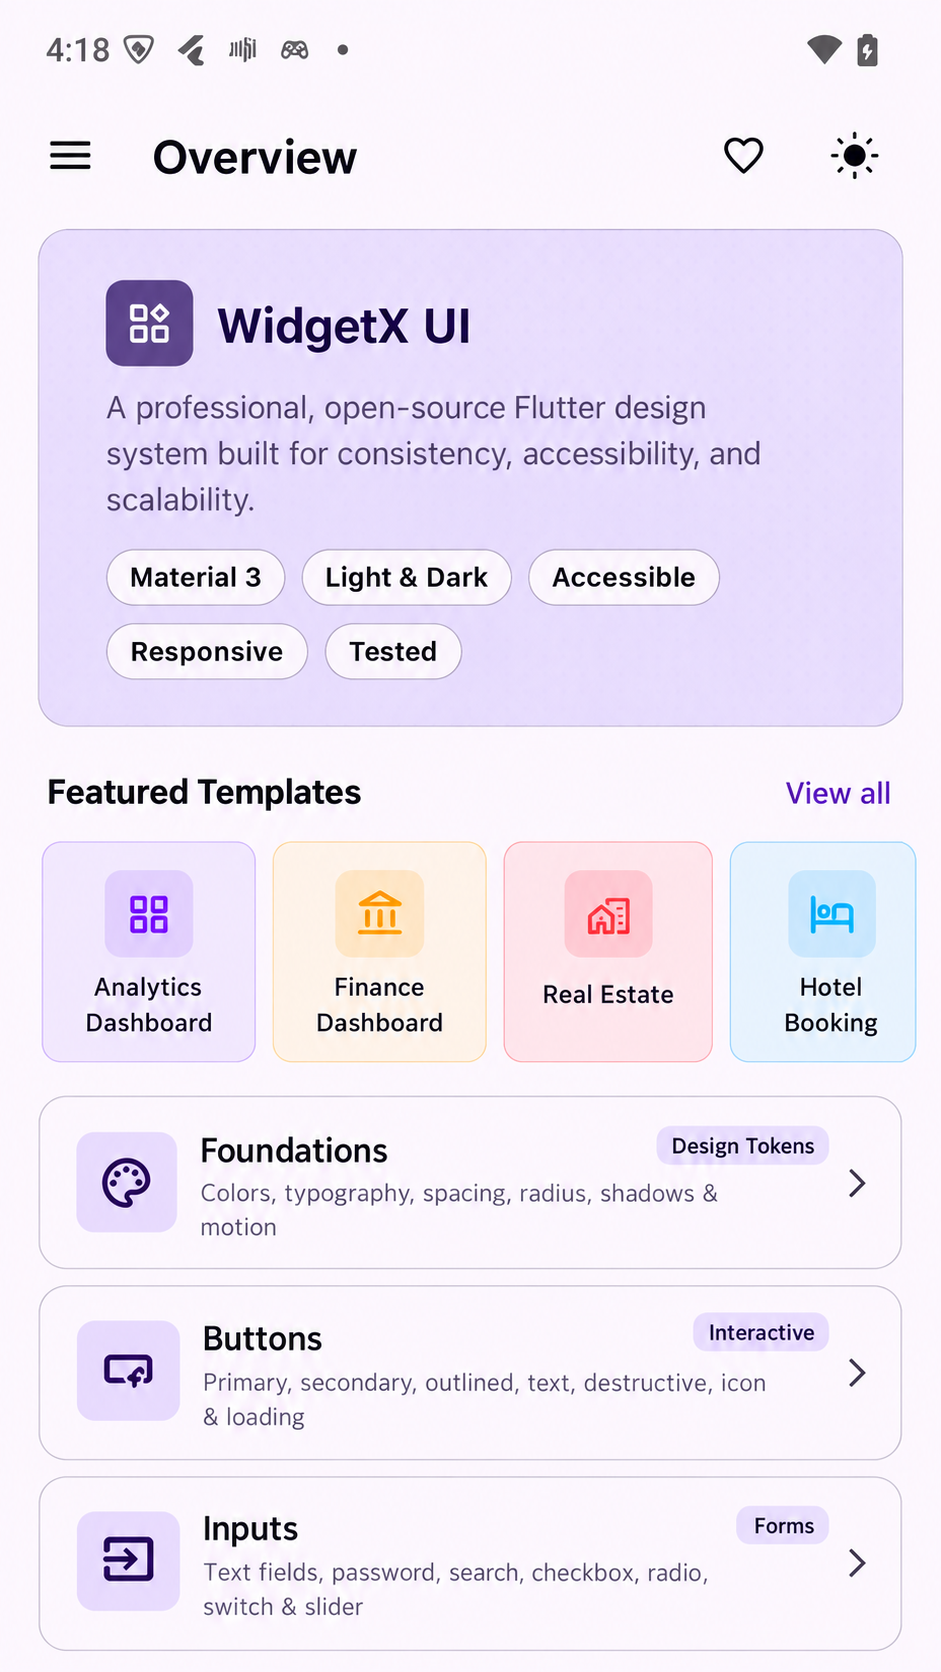
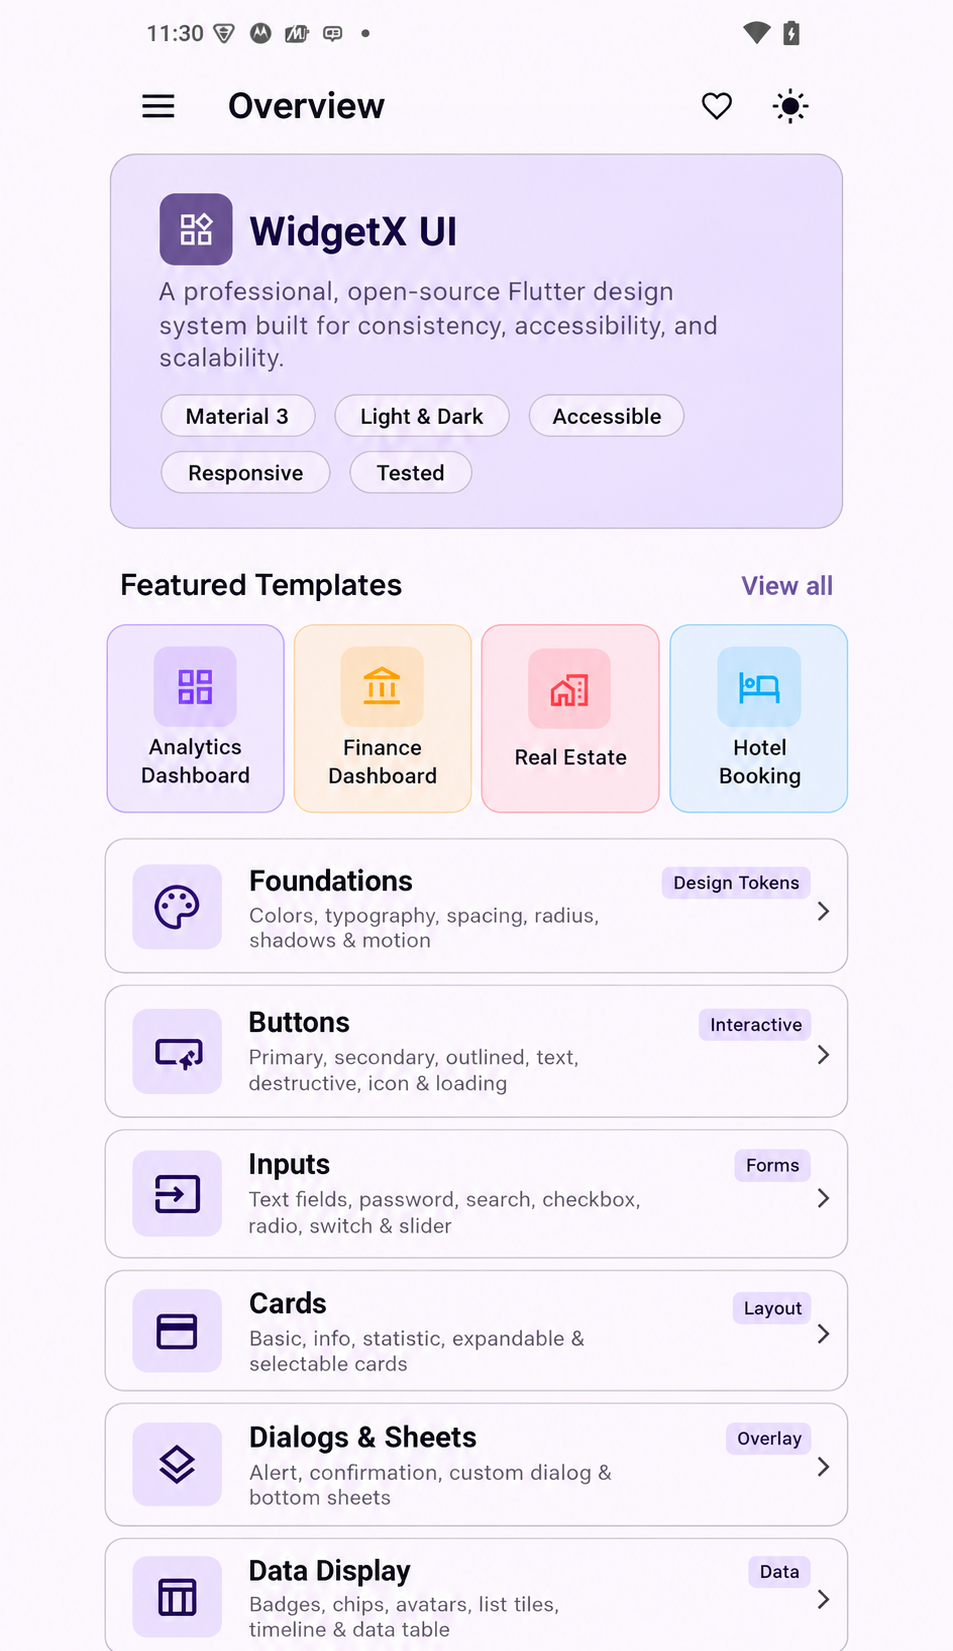
add screenshots in readme.md

diff --git a/lib/mock/mock_data.dart b/lib/mock/mock_data.dart
@@ -11,11 +11,13 @@ class MockProduct {
     this.description = '',
     this.isNew = false,
     this.isFeatured = false,
+    this.imageUrl = '',
   });
   final String id, name, category, description;
   final double price, rating;
   final int reviewCount;
   final bool isNew, isFeatured;
+  final String imageUrl;
 }
 
 class MockTransaction {
@@ -46,11 +48,13 @@ class MockProperty {
     required this.type,
     this.description = '',
     this.isFeatured = false,
+    this.imageUrl = '',
   });
   final String id, title, location, type, description;
   final double price;
   final int beds, baths, sqft;
   final bool isFeatured;
+  final String imageUrl;
 }
 
 class MockTask {
@@ -176,6 +180,7 @@ abstract final class MockData {
           'Experience superior sound quality with 30-hour battery life, '
           'active noise cancellation, and premium comfort for all-day wear.',
       isFeatured: true,
+      imageUrl: 'https://picsum.photos/id/3/300/300',
     ),
     MockProduct(
       id: '2',
@@ -187,6 +192,7 @@ abstract final class MockData {
       description:
           'Lightweight and responsive running shoes with energy-return foam '
           'and breathable mesh upper for maximum performance.',
+      imageUrl: 'https://picsum.photos/id/21/300/300',
     ),
     MockProduct(
       id: '3',
@@ -199,6 +205,7 @@ abstract final class MockData {
           'Swiss movement, sapphire crystal glass, and genuine leather strap. '
           'A timeless piece for every occasion.',
       isNew: true,
+      imageUrl: 'https://picsum.photos/id/48/300/300',
     ),
     MockProduct(
       id: '4',
@@ -210,6 +217,7 @@ abstract final class MockData {
       description:
           'Tracks your hydration, reminds you to drink, and keeps your '
           'water cold for 24 hours or hot for 12 hours.',
+      imageUrl: 'https://picsum.photos/id/63/300/300',
     ),
     MockProduct(
       id: '5',
@@ -221,6 +229,7 @@ abstract final class MockData {
       description:
           'Non-slip, eco-friendly TPE foam with alignment lines and '
           'carry strap. Perfect for studio or home practice.',
+      imageUrl: 'https://picsum.photos/id/96/300/300',
     ),
     MockProduct(
       id: '6',
@@ -233,6 +242,7 @@ abstract final class MockData {
           'Ergonomic aluminum stand with 6 height levels. Compatible with '
           'all laptops 10–17". Reduces neck strain and improves posture.',
       isFeatured: true,
+      imageUrl: 'https://picsum.photos/id/119/300/300',
     ),
     MockProduct(
       id: '7',
@@ -245,6 +255,7 @@ abstract final class MockData {
           'Tactile Cherry MX switches, RGB backlight, and compact TKL layout. '
           'USB-C with braided cable.',
       isNew: true,
+      imageUrl: 'https://picsum.photos/id/160/300/300',
     ),
     MockProduct(
       id: '8',
@@ -256,6 +267,7 @@ abstract final class MockData {
       description:
           'High-density foam roller for muscle recovery and myofascial release. '
           'Grid texture for targeted deep tissue massage.',
+      imageUrl: 'https://picsum.photos/id/225/300/300',
     ),
   ];
 
@@ -350,6 +362,7 @@ abstract final class MockData {
           'Stunning downtown studio in the heart of Manhattan. Floor-to-ceiling '
           'windows, open kitchen, and access to rooftop terrace.',
       isFeatured: true,
+      imageUrl: 'https://picsum.photos/id/164/600/400',
     ),
     MockProperty(
       id: '2',
@@ -363,6 +376,7 @@ abstract final class MockData {
       description:
           'Spacious family home with large backyard, modern kitchen, '
           'and quiet suburban neighborhood. Top-rated school district.',
+      imageUrl: 'https://picsum.photos/id/182/600/400',
     ),
     MockProperty(
       id: '3',
@@ -377,6 +391,7 @@ abstract final class MockData {
           'Exclusive penthouse with panoramic city views, private terrace, '
           'chef\'s kitchen, and 24/7 concierge service.',
       isFeatured: true,
+      imageUrl: 'https://picsum.photos/id/316/600/400',
     ),
     MockProperty(
       id: '4',
@@ -390,6 +405,7 @@ abstract final class MockData {
       description:
           'Oceanfront condo with private beach access, resort-style pool, '
           'and stunning Atlantic views from every room.',
+      imageUrl: 'https://picsum.photos/id/403/600/400',
     ),
     MockProperty(
       id: '5',
@@ -403,6 +419,7 @@ abstract final class MockData {
       description:
           'Charming mountain cabin surrounded by pine trees. Perfect for '
           'year-round activities — skiing in winter, hiking in summer.',
+      imageUrl: 'https://picsum.photos/id/435/600/400',
     ),
     MockProperty(
       id: '6',
@@ -416,6 +433,7 @@ abstract final class MockData {
       description:
           'Converted warehouse loft with exposed brick, industrial design, '
           'and a vibrant arts district neighbourhood.',
+      imageUrl: 'https://picsum.photos/id/531/600/400',
     ),
   ];
 

diff --git a/lib/templates/ecommerce/ecommerce_home_screen.dart b/lib/templates/ecommerce/ecommerce_home_screen.dart
@@ -238,7 +238,7 @@ class _ProductCard extends ConsumerWidget {
               child: Column(
                 crossAxisAlignment: CrossAxisAlignment.start,
                 children: [
-                  // Image placeholder with overlay
+                  // Product image
                   Expanded(
                     child: Container(
                       width: double.infinity,
@@ -248,9 +248,41 @@ class _ProductCard extends ConsumerWidget {
                       ),
                       child: Stack(
                         children: [
-                          Center(
-                            child: Icon(Icons.image_outlined,
-                                size: 40, color: cs.outlineVariant),
+                          Positioned.fill(
+                            child: ClipRRect(
+                              borderRadius:
+                                  BorderRadius.circular(WidgetXRadius.sm),
+                              child: product.imageUrl.isNotEmpty
+                                  ? Image.network(
+                                      product.imageUrl,
+                                      fit: BoxFit.cover,
+                                      loadingBuilder: (context, child, progress) =>
+                                          progress == null
+                                              ? child
+                                              : Container(
+                                                  color: cs.surfaceContainerHighest,
+                                                  child: Center(
+                                                    child: SizedBox(
+                                                      width: 20,
+                                                      height: 20,
+                                                      child: CircularProgressIndicator(
+                                                        strokeWidth: 2,
+                                                        color: cs.outlineVariant,
+                                                      ),
+                                                    ),
+                                                  ),
+                                                ),
+                                      errorBuilder: (context, error, e) => Center(
+                                        child: Icon(Icons.image_outlined,
+                                            size: 40,
+                                            color: cs.outlineVariant),
+                                      ),
+                                    )
+                                  : Center(
+                                      child: Icon(Icons.image_outlined,
+                                          size: 40, color: cs.outlineVariant),
+                                    ),
+                            ),
                           ),
                           if (product.isNew)
                             Positioned(

diff --git a/lib/templates/realestate/property_home_screen.dart b/lib/templates/realestate/property_home_screen.dart
@@ -139,16 +139,46 @@ class _PropertyCard extends StatelessWidget {
         children: [
           Stack(
             children: [
-              Container(
-                height: 160,
-                width: double.infinity,
-                decoration: BoxDecoration(
-                  color: cs.surfaceContainerHighest,
-                  borderRadius: BorderRadius.circular(WidgetXRadius.sm),
-                ),
-                child: Center(
-                  child: Icon(Icons.home_outlined,
-                      size: 48, color: cs.outlineVariant),
+              ClipRRect(
+                borderRadius: BorderRadius.circular(WidgetXRadius.sm),
+                child: SizedBox(
+                  height: 160,
+                  width: double.infinity,
+                  child: property.imageUrl.isNotEmpty
+                      ? Image.network(
+                          property.imageUrl,
+                          fit: BoxFit.cover,
+                          loadingBuilder: (context, child, progress) =>
+                              progress == null
+                                  ? child
+                                  : Container(
+                                      color: cs.surfaceContainerHighest,
+                                      child: Center(
+                                        child: SizedBox(
+                                          width: 20,
+                                          height: 20,
+                                          child: CircularProgressIndicator(
+                                            strokeWidth: 2,
+                                            color: cs.outlineVariant,
+                                          ),
+                                        ),
+                                      ),
+                                    ),
+                          errorBuilder: (context, error, e) => Container(
+                            color: cs.surfaceContainerHighest,
+                            child: Center(
+                              child: Icon(Icons.home_outlined,
+                                  size: 48, color: cs.outlineVariant),
+                            ),
+                          ),
+                        )
+                      : Container(
+                          color: cs.surfaceContainerHighest,
+                          child: Center(
+                            child: Icon(Icons.home_outlined,
+                                size: 48, color: cs.outlineVariant),
+                          ),
+                        ),
                 ),
               ),
               if (property.isFeatured)

diff --git a/lib/templates/realestate/property_details_screen.dart b/lib/templates/realestate/property_details_screen.dart
@@ -44,18 +44,43 @@ class PropertyDetailsScreen extends StatelessWidget {
         child: Column(
           crossAxisAlignment: CrossAxisAlignment.start,
           children: [
-            // Image gallery
+            // Property image
             SizedBox(
               height: 260,
               child: Stack(
                 children: [
-                  Container(
-                    width: double.infinity,
-                    color: cs.surfaceContainerHighest,
-                    child: Center(
-                      child: Icon(Icons.home_outlined,
-                          size: 80, color: cs.outlineVariant),
-                    ),
+                  Positioned.fill(
+                    child: _property.imageUrl.isNotEmpty
+                        ? Image.network(
+                            _property.imageUrl,
+                            fit: BoxFit.cover,
+                            loadingBuilder: (context, child, progress) =>
+                                progress == null
+                                    ? child
+                                    : Container(
+                                        color: cs.surfaceContainerHighest,
+                                        child: Center(
+                                          child: CircularProgressIndicator(
+                                            strokeWidth: 2,
+                                            color: cs.outlineVariant,
+                                          ),
+                                        ),
+                                      ),
+                            errorBuilder: (context, error, e) => Container(
+                              color: cs.surfaceContainerHighest,
+                              child: Center(
+                                child: Icon(Icons.home_outlined,
+                                    size: 80, color: cs.outlineVariant),
+                              ),
+                            ),
+                          )
+                        : Container(
+                            color: cs.surfaceContainerHighest,
+                            child: Center(
+                              child: Icon(Icons.home_outlined,
+                                  size: 80, color: cs.outlineVariant),
+                            ),
+                          ),
                   ),
                   Positioned(
                     bottom: 12,

diff --git a/lib/templates/ecommerce/product_details_screen.dart b/lib/templates/ecommerce/product_details_screen.dart
@@ -73,15 +73,43 @@ class _ProductDetailsScreenState extends ConsumerState<ProductDetailsScreen> {
         child: Column(
           crossAxisAlignment: CrossAxisAlignment.start,
           children: [
-            // Image gallery placeholder
-            Container(
+            // Product image
+            SizedBox(
               height: 300,
-              color: cs.surfaceContainerHighest,
               child: Stack(
                 children: [
-                  Center(
-                    child: Icon(Icons.image_outlined,
-                        size: 80, color: cs.outlineVariant),
+                  Positioned.fill(
+                    child: _product.imageUrl.isNotEmpty
+                        ? Image.network(
+                            _product.imageUrl,
+                            fit: BoxFit.cover,
+                            loadingBuilder: (context, child, progress) =>
+                                progress == null
+                                    ? child
+                                    : Container(
+                                        color: cs.surfaceContainerHighest,
+                                        child: Center(
+                                          child: CircularProgressIndicator(
+                                            strokeWidth: 2,
+                                            color: cs.outlineVariant,
+                                          ),
+                                        ),
+                                      ),
+                            errorBuilder: (context, error, e) => Container(
+                              color: cs.surfaceContainerHighest,
+                              child: Center(
+                                child: Icon(Icons.image_outlined,
+                                    size: 80, color: cs.outlineVariant),
+                              ),
+                            ),
+                          )
+                        : Container(
+                            color: cs.surfaceContainerHighest,
+                            child: Center(
+                              child: Icon(Icons.image_outlined,
+                                  size: 80, color: cs.outlineVariant),
+                            ),
+                          ),
                   ),
                   // Gallery indicator
                   Positioned(

diff --git a/android/app/src/main/kotlin/com/widgetx/widget_x/MainActivity.kt b/android/app/src/main/kotlin/com/widgetx/widget_x/MainActivity.kt
@@ -1,5 +1,13 @@
 package com.widgetx.widget_x
 
+import android.os.Bundle
+import android.view.WindowManager
 import io.flutter.embedding.android.FlutterActivity
 
-class MainActivity : FlutterActivity()
+class MainActivity : FlutterActivity() {
+    override fun onCreate(savedInstanceState: Bundle?) {
+        super.onCreate(savedInstanceState)
+        // Allow screenshots and screen recording
+        window.clearFlags(WindowManager.LayoutParams.FLAG_SECURE)
+    }
+}

diff --git a/README.md b/README.md
@@ -46,7 +46,7 @@ The project demonstrates senior-level Flutter development including:
 ### Home Light
 
 <p align="center">
-  <img src="docs/images/home-light.png" width="220"/>
+  <img src="docs/images/.png" width="220"/>
 </p>
 
 ### Home Dark
